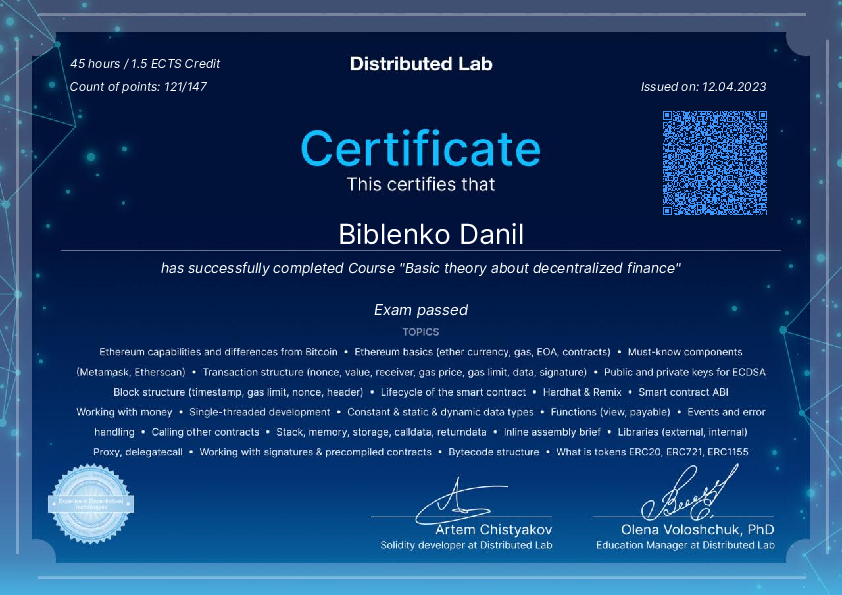
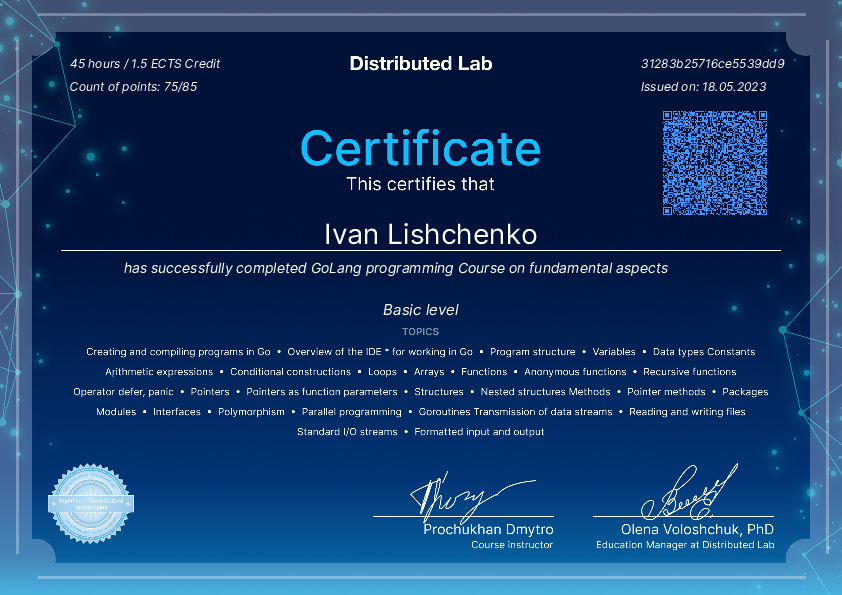
fix

diff --git a/internal/service/pdf/pdf.go b/internal/service/pdf/pdf.go
@@ -68,7 +68,7 @@ var DefaultTemplateNormal = PDF{
 		Size: 14,
 		Font: "semibold",
 	},
-	Credits: Field{ //todo get from front and save to db
+	Credits: Field{
 		X:    70,
 		Y:    56,
 		Size: 12,
@@ -143,7 +143,7 @@ var DefaultTemplateTall = PDF{
 		Font: "regular",
 	},
 	SerialNumber: Field{
-		X:    1282,
+		X:    1144,
 		Y:    112,
 		Size: 24,
 		Font: "regular",
@@ -331,10 +331,13 @@ func (p *PDF) Prepare(data PDFData, cfg config.Config, templateQ data.TemplateQ,
 			return nil, "", nil, errors.Wrap(err, "failed to get background img")
 		}
 		if template == nil {
-			template, err = templateQ.GetByName("default")
+			titles := cfg.TitlesConfig()
+			_ = titles
+			template, err = templateQ.GetByName(templateImg)
 			if err != nil {
 				return nil, "", nil, errors.Wrap(err, "failed to get default background img")
 			}
+
 		}
 		//if template == nil {
 		//	return nil, "", nil, errors.Wrap(err, "default template isn't found")
@@ -347,7 +350,13 @@ func (p *PDF) Prepare(data PDFData, cfg config.Config, templateQ data.TemplateQ,
 
 			}
 		} else {
-			file, err := os.Open("./staff/templates/template.jpg")
+
+			file, err := os.Open(fmt.Sprintf("./staff/templates/%s.png", templateImg))
+			fmt.Println()
+			fmt.Println()
+			fmt.Println(fmt.Sprintf("./staff/templates/%s.png", templateImg))
+			fmt.Println()
+			fmt.Println()
 			defer file.Close()
 			if err != nil {
 				return nil, "", nil, errors.Wrap(err, "default template isn't found")
@@ -440,7 +449,7 @@ func (p *PDF) Prepare(data PDFData, cfg config.Config, templateQ data.TemplateQ,
 	pdf.SetY(p.Course.Y)
 	titles := cfg.TitlesConfig()
 	isLevel, title, level := p.checkLevel(titles[templateImg])
-	pdf.CellWithOption(&gopdf.Rect{W: p.Width, H: p.High}, title, gopdf.CellOption{Align: gopdf.Center})
+	pdf.CellWithOption(&gopdf.Rect{W: p.Width - 50, H: p.High}, title, gopdf.CellOption{Align: gopdf.Center})
 
 	/////////// QR
 	if data.QR != nil {
